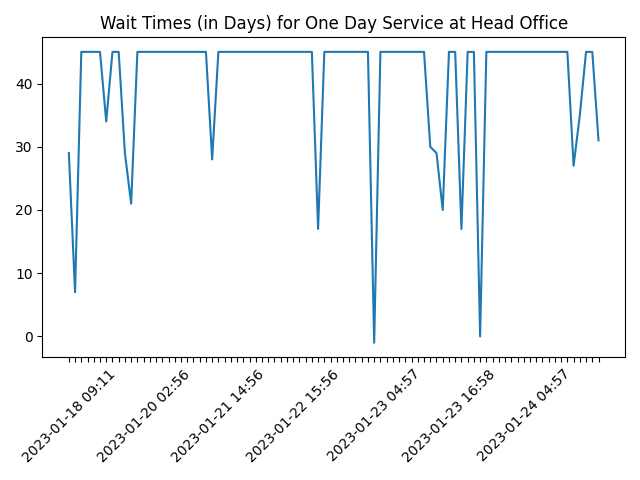
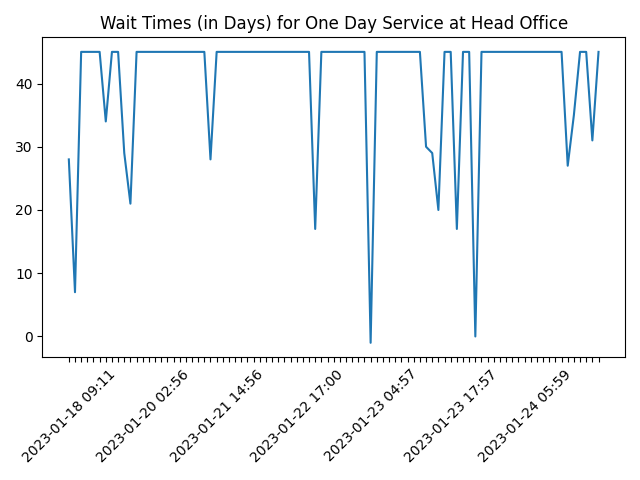
Updated data Tue Jan 24 12:27:11 UTC 2023

diff --git a/README.md b/README.md
@@ -1,12 +1,10 @@
 # Passport Application Reservation System - Availability Report
 
-*As of January 24, 2023 (04:58 PM)*
+*As of January 24, 2023 (05:57 PM)*
 
 ## One Day Service
 
 ### HEAD OFFICE - BATTARAMULLA
-
-* 2023-02-24 (1 timeslot)
 
 * 2023-03-10 (24 timeslots)
 
@@ -34,6 +32,8 @@
 
 ### HEAD OFFICE - BATTARAMULLA
 
-* 2023-04-21 (12 timeslots)
+* 2023-04-11 (1 timeslot)
+
+* 2023-04-21 (11 timeslots)
 
 Data Source: [Passport Application Reservation System](https://eservices.immigration.gov.lk:8443/appointment/pages/reservationApplication.xhtml)

diff --git a/summary.md b/summary.md
@@ -2,7 +2,7 @@
 
 Of the data from the Passport Application Reservation System of the Sri Lanka Department of Immigration and Emigration.
 
-*As of 2023-01-24 16:58:17*
+*As of 2023-01-24 17:57:10*
 
 ![Wait Time Chart](summary.wait_time_chart.png)
 
